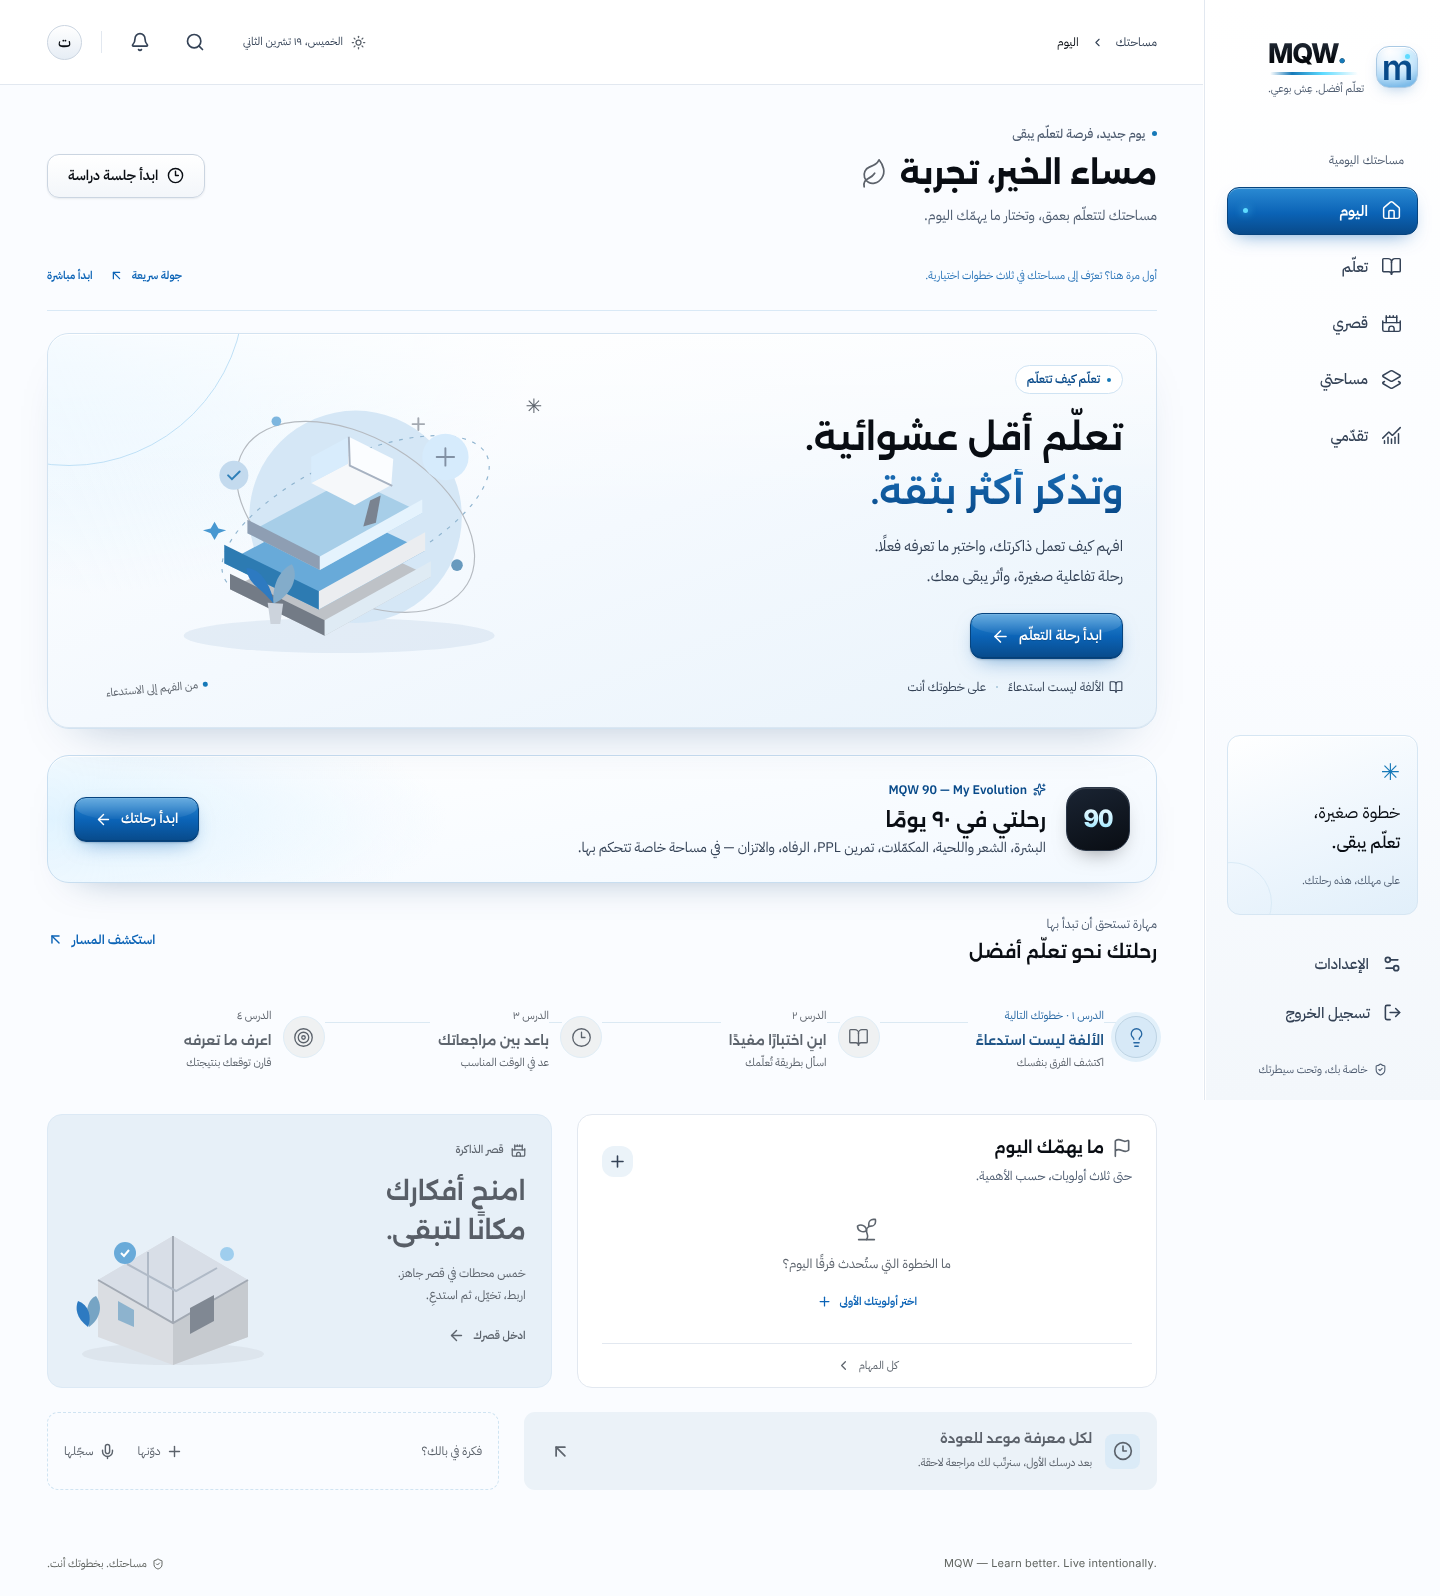
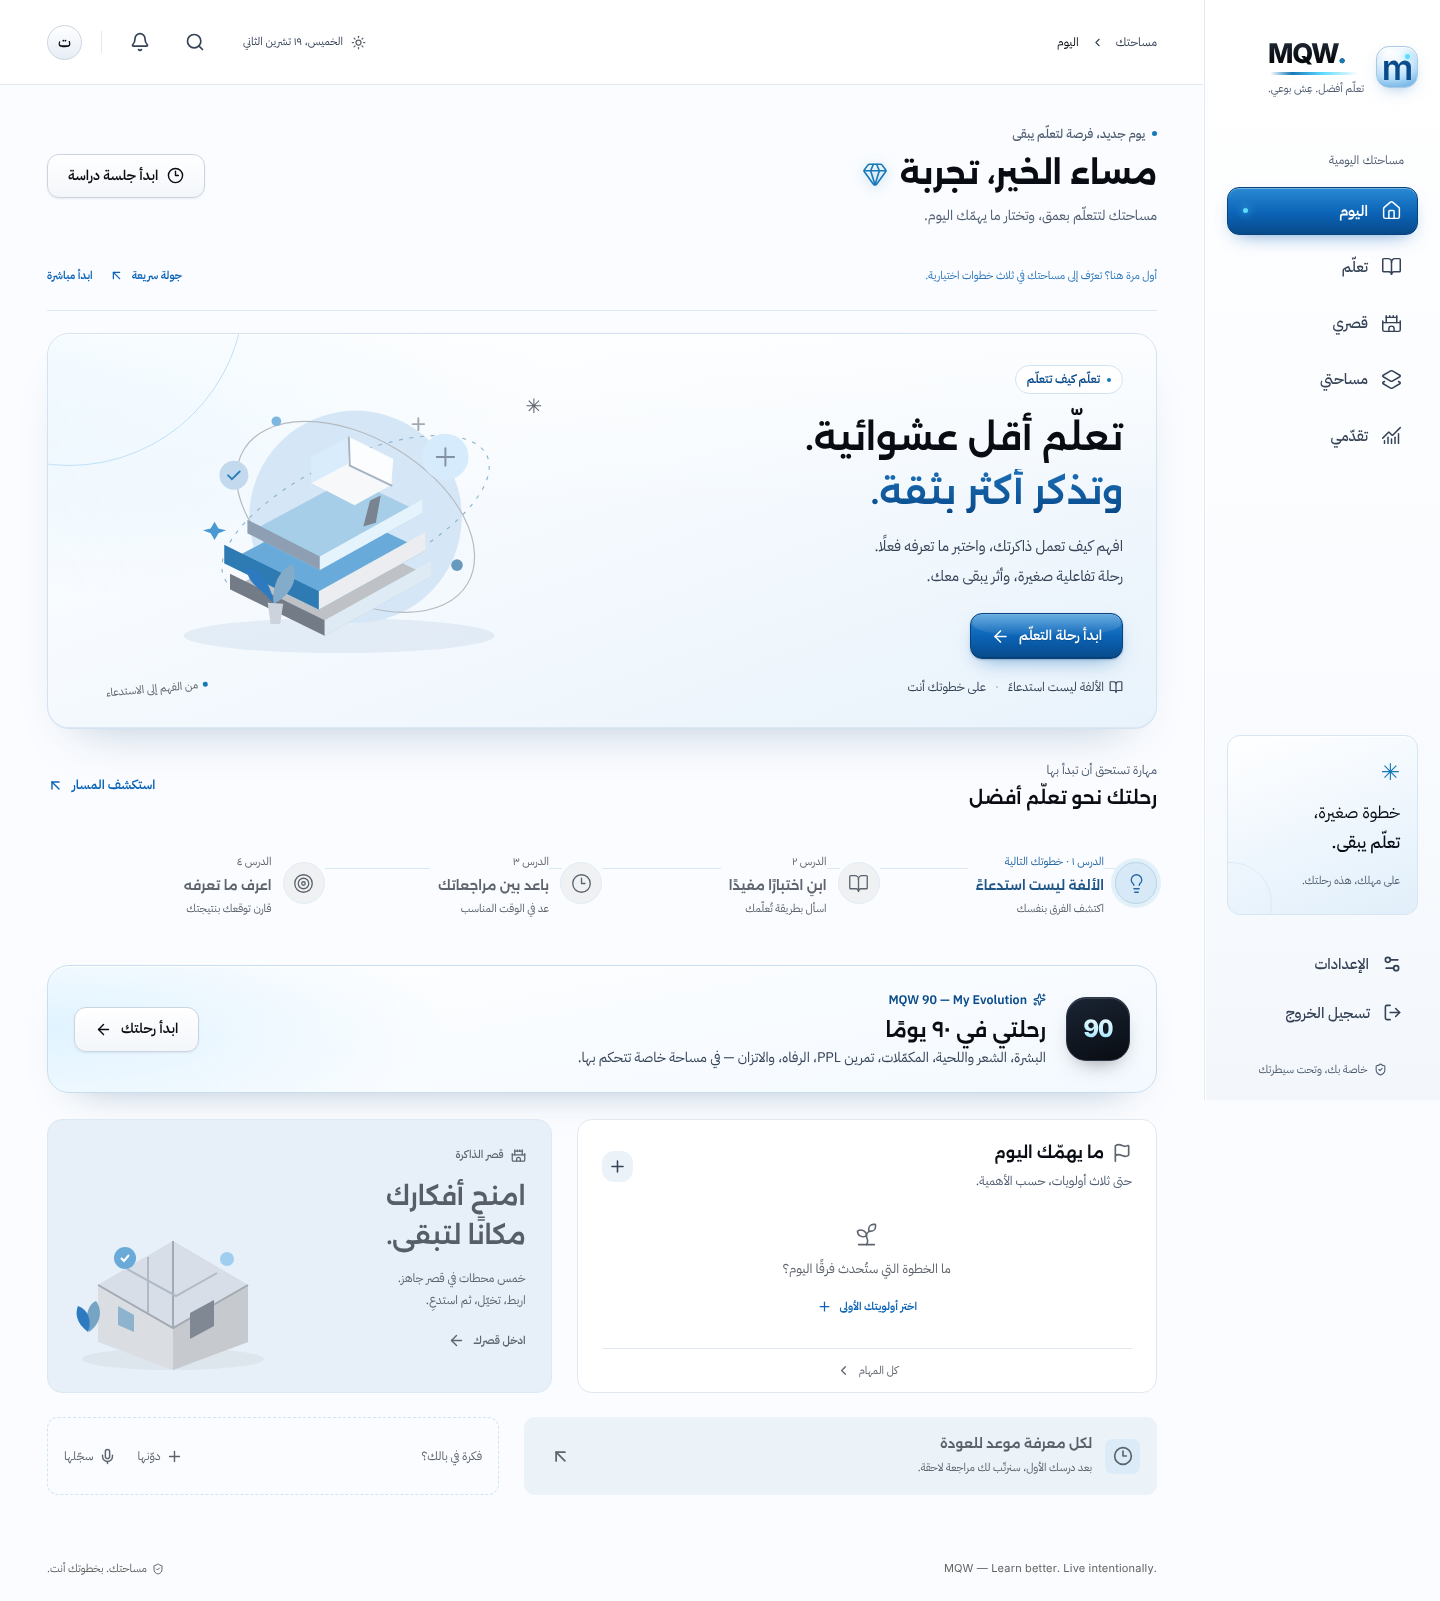
Keep Today learning-first, add diamond motif and repository CLAUDE.md
- Legacy and v2 specs require one dominant Today action (continue
  learning): the MQW 90 entry moves below the lesson path with a
  secondary chrome button; My Space keeps its primary entry.
- Replace the leftover leaf beside the greeting with a small sapphire
  diamond brand detail.
- Add CLAUDE.md (imports AGENTS.md) with precedence, permission
  boundaries and non-regression rules.
- Record the legacy review and 5-width viewport sweep (390/430/768/
  1280/1440, 18 routes, no horizontal overflow) in the Arabic report.

Claude-Session: https://claude.ai/code/session_01F2i2NeqLsJ7pPp2Ziu9caq

diff --git a/src/components/today.tsx b/src/components/today.tsx
@@ -10,6 +10,7 @@ import {
   ChevronLeft,
   Clock3,
   Flag,
+  Gem,
   Leaf,
   Lightbulb,
   Mic,
@@ -134,8 +135,8 @@ export default function TodayPage() {
           <h1>
             {greeting}
             {user?.name ? `، ${user.name.split(" ")[0]}` : ""}
-            <span className="greeting-leaf">
-              <Leaf size={29} strokeWidth={1.4} />
+            <span className="greeting-leaf greeting-gem" aria-hidden="true">
+              <Gem size={26} strokeWidth={1.5} />
             </span>
           </h1>
           <p className="page-description">
@@ -221,7 +222,6 @@ export default function TodayPage() {
           </span>
         </div>
       </section>
-      <EvolutionEntry variant="today" />
       <section className="learning-path-section">
         <div className="section-heading">
           <div>
@@ -263,6 +263,8 @@ export default function TodayPage() {
           })}
         </div>
       </section>
+      {/* MQW 90 complements learning; it never competes with the main learning action. */}
+      <EvolutionEntry variant="today" />
       <div className="today-columns">
         <section className="priorities-section">
           <div className="section-heading">

diff --git a/src/components/evolution/entry.tsx b/src/components/evolution/entry.tsx
@@ -54,7 +54,7 @@ export function EvolutionEntry({
       </div>
       <Link
         href={cycle ? "/evolution" : "/evolution/onboarding"}
-        className="btn btn-primary evo-entry-cta"
+        className={`btn ${variant === "space" ? "btn-primary" : "btn-secondary"} evo-entry-cta`}
       >
         {cycle ? (daily?.focus ? "افتح رحلتي" : "خطوتي اليوم") : "ابدأ رحلتك"}{" "}
         <ArrowLeft size={17} />

diff --git a/src/app/theme-v3.css b/src/app/theme-v3.css
@@ -524,3 +524,10 @@ p {
     min-width: 44px;
   }
 }
+
+/* Diamond brand detail beside the greeting (decorative). */
+.greeting-gem {
+  color: var(--mqw-sapphire-bright);
+  transform: none;
+  filter: drop-shadow(0 2px 6px #1679b84d);
+}

diff --git a/src/components/evolution/evolution.css b/src/components/evolution/evolution.css
@@ -1459,6 +1459,9 @@
     inset 0 1px 0 #fff,
     0 20px 40px -32px #0b3a6a80;
 }
+.evo-entry-today {
+  margin: 34px 0 26px;
+}
 .evo-entry-space {
   margin: 0 0 18px;
 }

diff --git a/CLAUDE.md b/CLAUDE.md
@@ -1,0 +1,37 @@
+@AGENTS.md
+
+# MQW — repository instructions
+
+Arabic-first private learning app (Next.js 16, React 19, TypeScript). Work on this codebase in place. Never scaffold a separate app.
+
+## Precedence
+
+Latest explicit owner instruction > observed code and data safety > v3 master directive (owner's private package) > MQW 90 docs (`docs/MQW90.md`) > design system (`docs/DESIGN_SYSTEM.md`) > older v1 specs. Old planning-only text and the old sage/purple palette are superseded.
+
+## Permission boundaries
+
+- Allowed: safe local edits, refactors, tests and local builds.
+- Requires explicit owner approval: production DB migrations, deployment, paid services (including Higgsfield), external AI calls, real personal data or photos, secrets in chat or code, and destructive data actions.
+- `supabase/proposals/*` are proposals only. Applied migrations in `supabase/migrations/` are immutable.
+
+## Product rules that must not regress
+
+- Five primary destinations only: اليوم / تعلّم / قصري / مساحتي / تقدّمي. MQW 90 lives under My Space at `/evolution`.
+- Today has one dominant action: continue learning.
+- Learning: attempts are persisted before feedback, retries keep history, review dates are editable.
+- Memory Palace: five canonical loci (Entrance, Hallway, Living Room, Kitchen, Library). Never remap them.
+- No fake numbers, no default doses, protocols or diagnoses, wellbeing off by default, AI off by default.
+- No purple, violet, lavender or mauve in the UI. Body text is solid near-black. Gloss is selective.
+
+## Data
+
+`records` (owner-scoped JSON collections) in SQLite locally and in `mqw_private` PostgreSQL with owner RLS in cloud mode. Add new record types as collections with validation in `src/lib/server/records.ts` (MQW 90: `src/lib/server/evolution.ts`). Do not add tables without an approved migration.
+
+## Verify
+
+```sh
+npm run typecheck && npm test && npm run build
+MQW_CHROMIUM_PATH=/opt/pw-browsers/chromium npx playwright test --trace off   # MQW_CHROMIUM_PATH only when the bundled browser is missing
+```
+
+Report exact results. Never claim iPhone/Safari or deployment verification that was not done.

diff --git a/docs/V3_DELIVERY_REPORT_AR.md b/docs/V3_DELIVERY_REPORT_AR.md
@@ -43,6 +43,13 @@
 - **الصور في الإنتاج السحابي معطّلة عمدًا** حتى توافق. الترحيل المقترح في `supabase/proposals/mqw90_private_media.sql` **ولم يُنفَّذ**.
 - **حذف قسم كامل** يتطلب كلمة المرور.
 
+## ٤-ب. المرحلة الثانية (مراجعة المتطلبات الأصلية)
+- راجعتُ `legacy_reference/` كاملة. الميزات الأصلية مُحقَّقة ومحمية باختباراتها السابقة التي ما زالت ناجحة.
+- **تعارض أصلحته:** المواصفات تشترط لصفحة «اليوم» إجراءً رئيسيًا واحدًا هو متابعة التعلّم. نقلتُ بطاقة MQW 90 إلى ما بعد مسار الدروس، وصار زرّها ثانويًا فضيًا بدل الأزرق.
+- استبدلتُ ورقة النبات القديمة بجانب التحية برمز ماسي صغير، وهو تفصيل مسموح في هوية v2.
+- فحصتُ ١٨ مسارًا على خمسة مقاسات (390، 430، 768، 1280، 1440)، أي ٩٠ لقطة: **لا تمرير أفقي في أي منها**.
+- أضفتُ `CLAUDE.md` للمستودع. لم يكن موجودًا، ويستورد `AGENTS.md` دون استبداله.
+
 ## ٥. الاختبارات (نتائج فعلية من هذا الفرع)
 | الأمر | النتيجة |
 |---|---|
